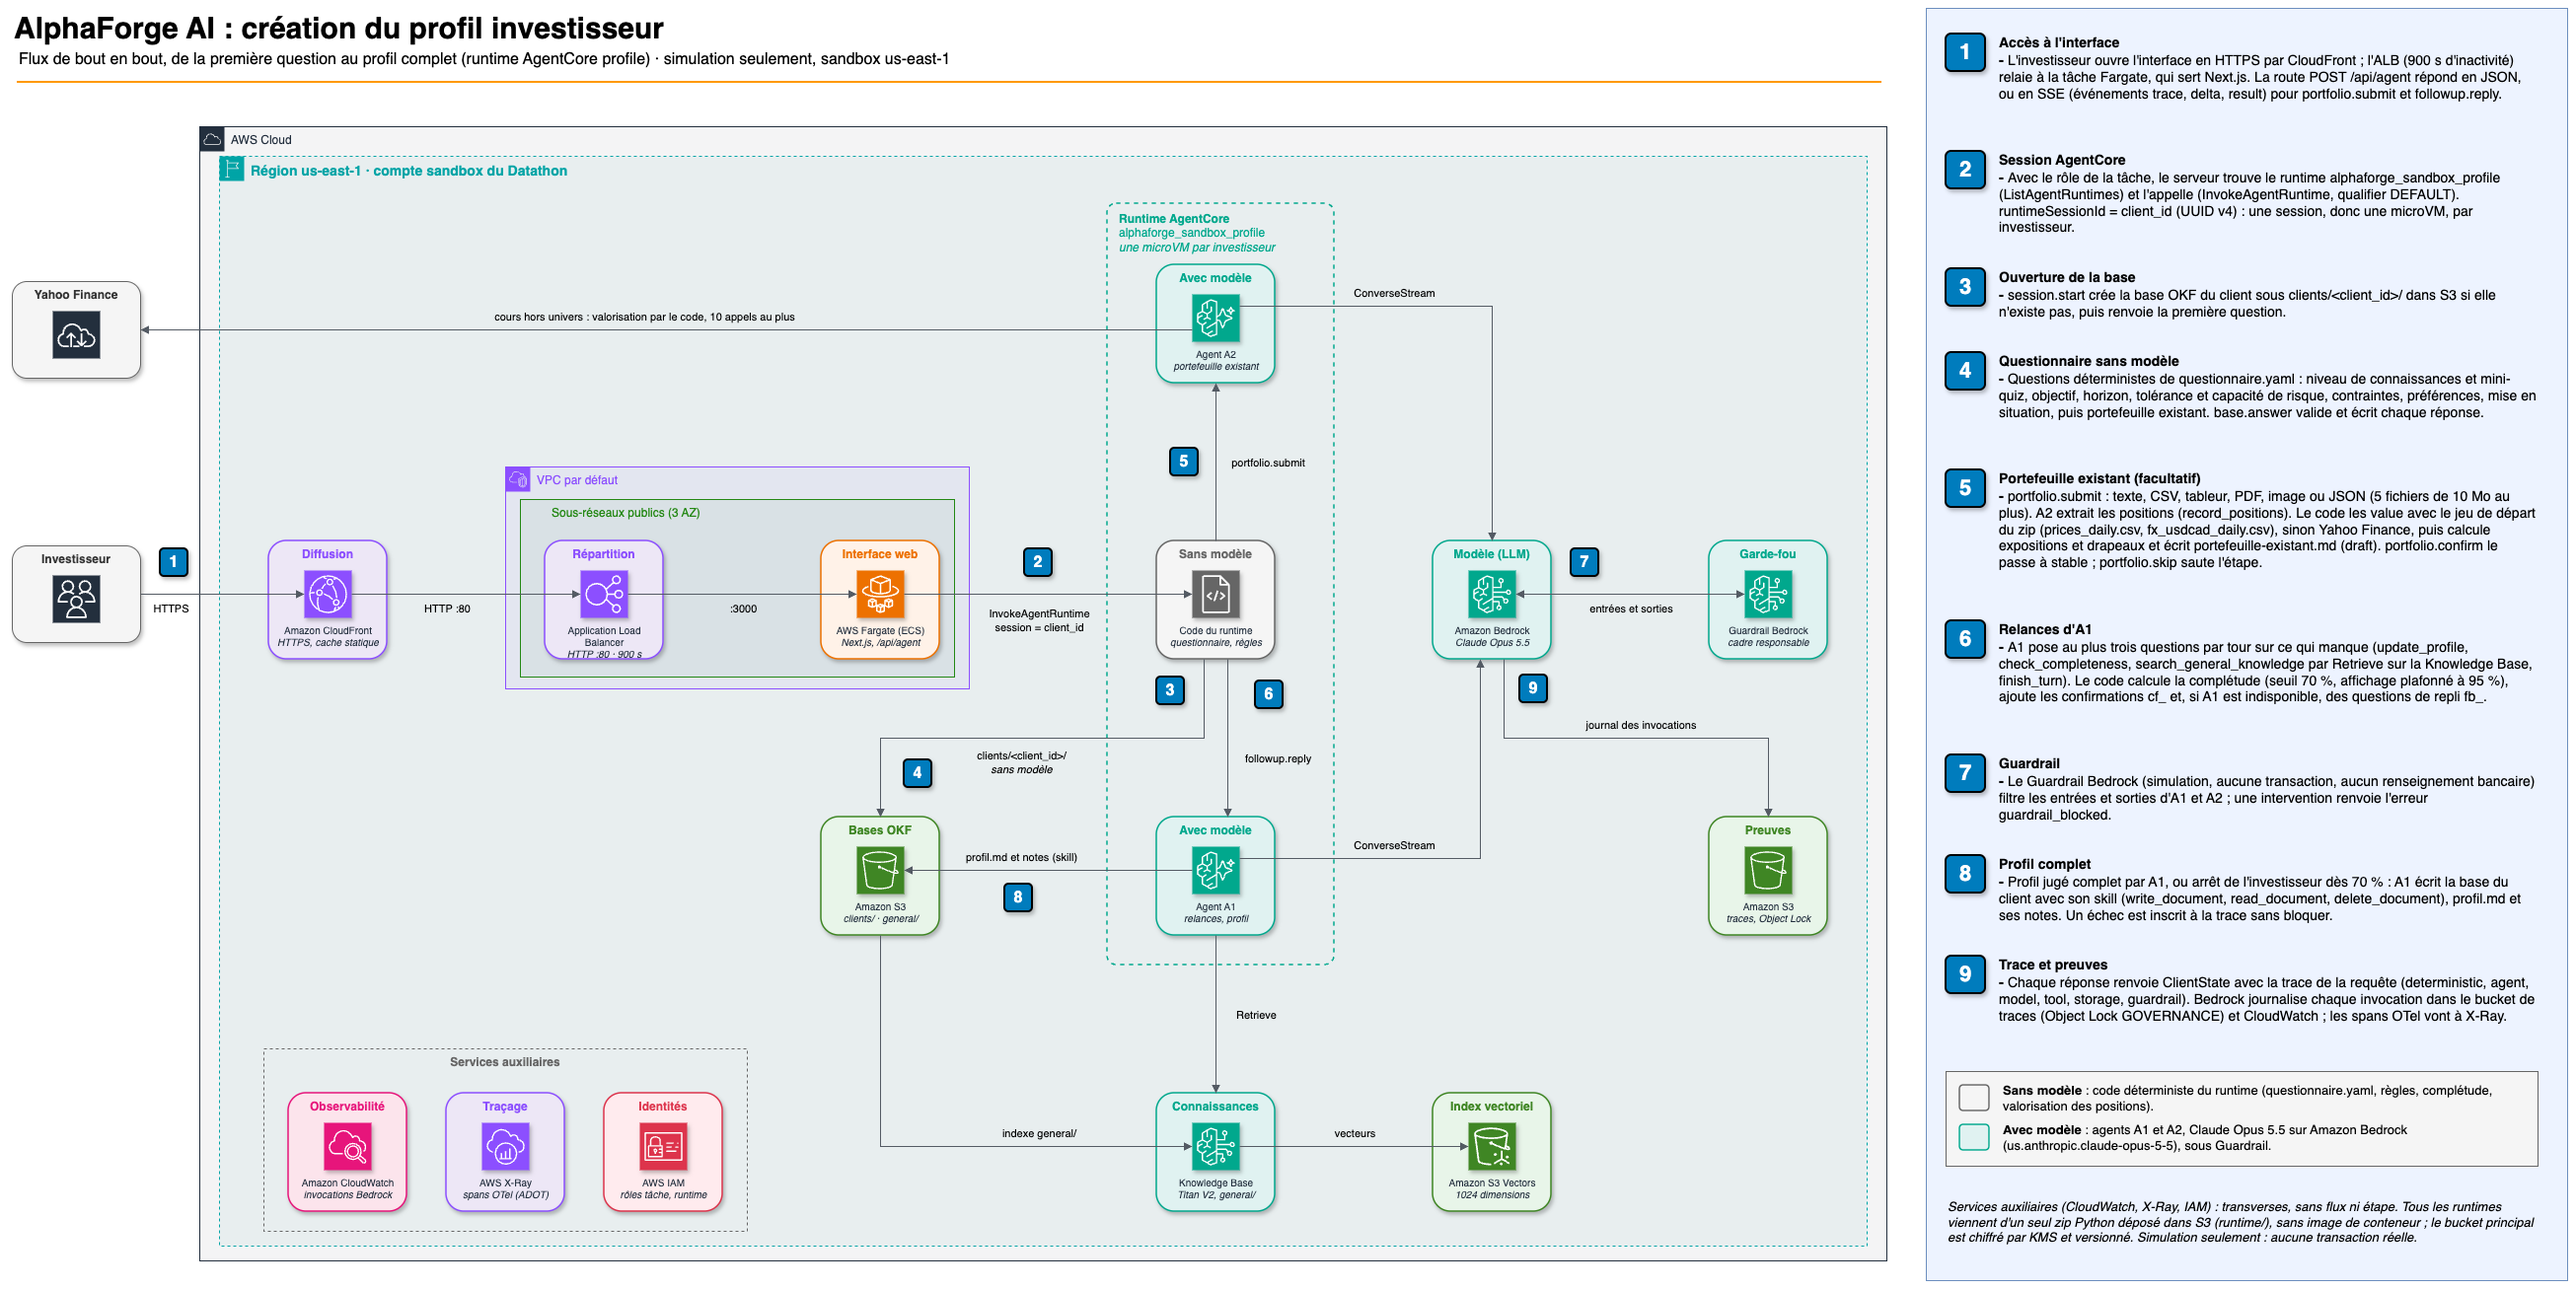
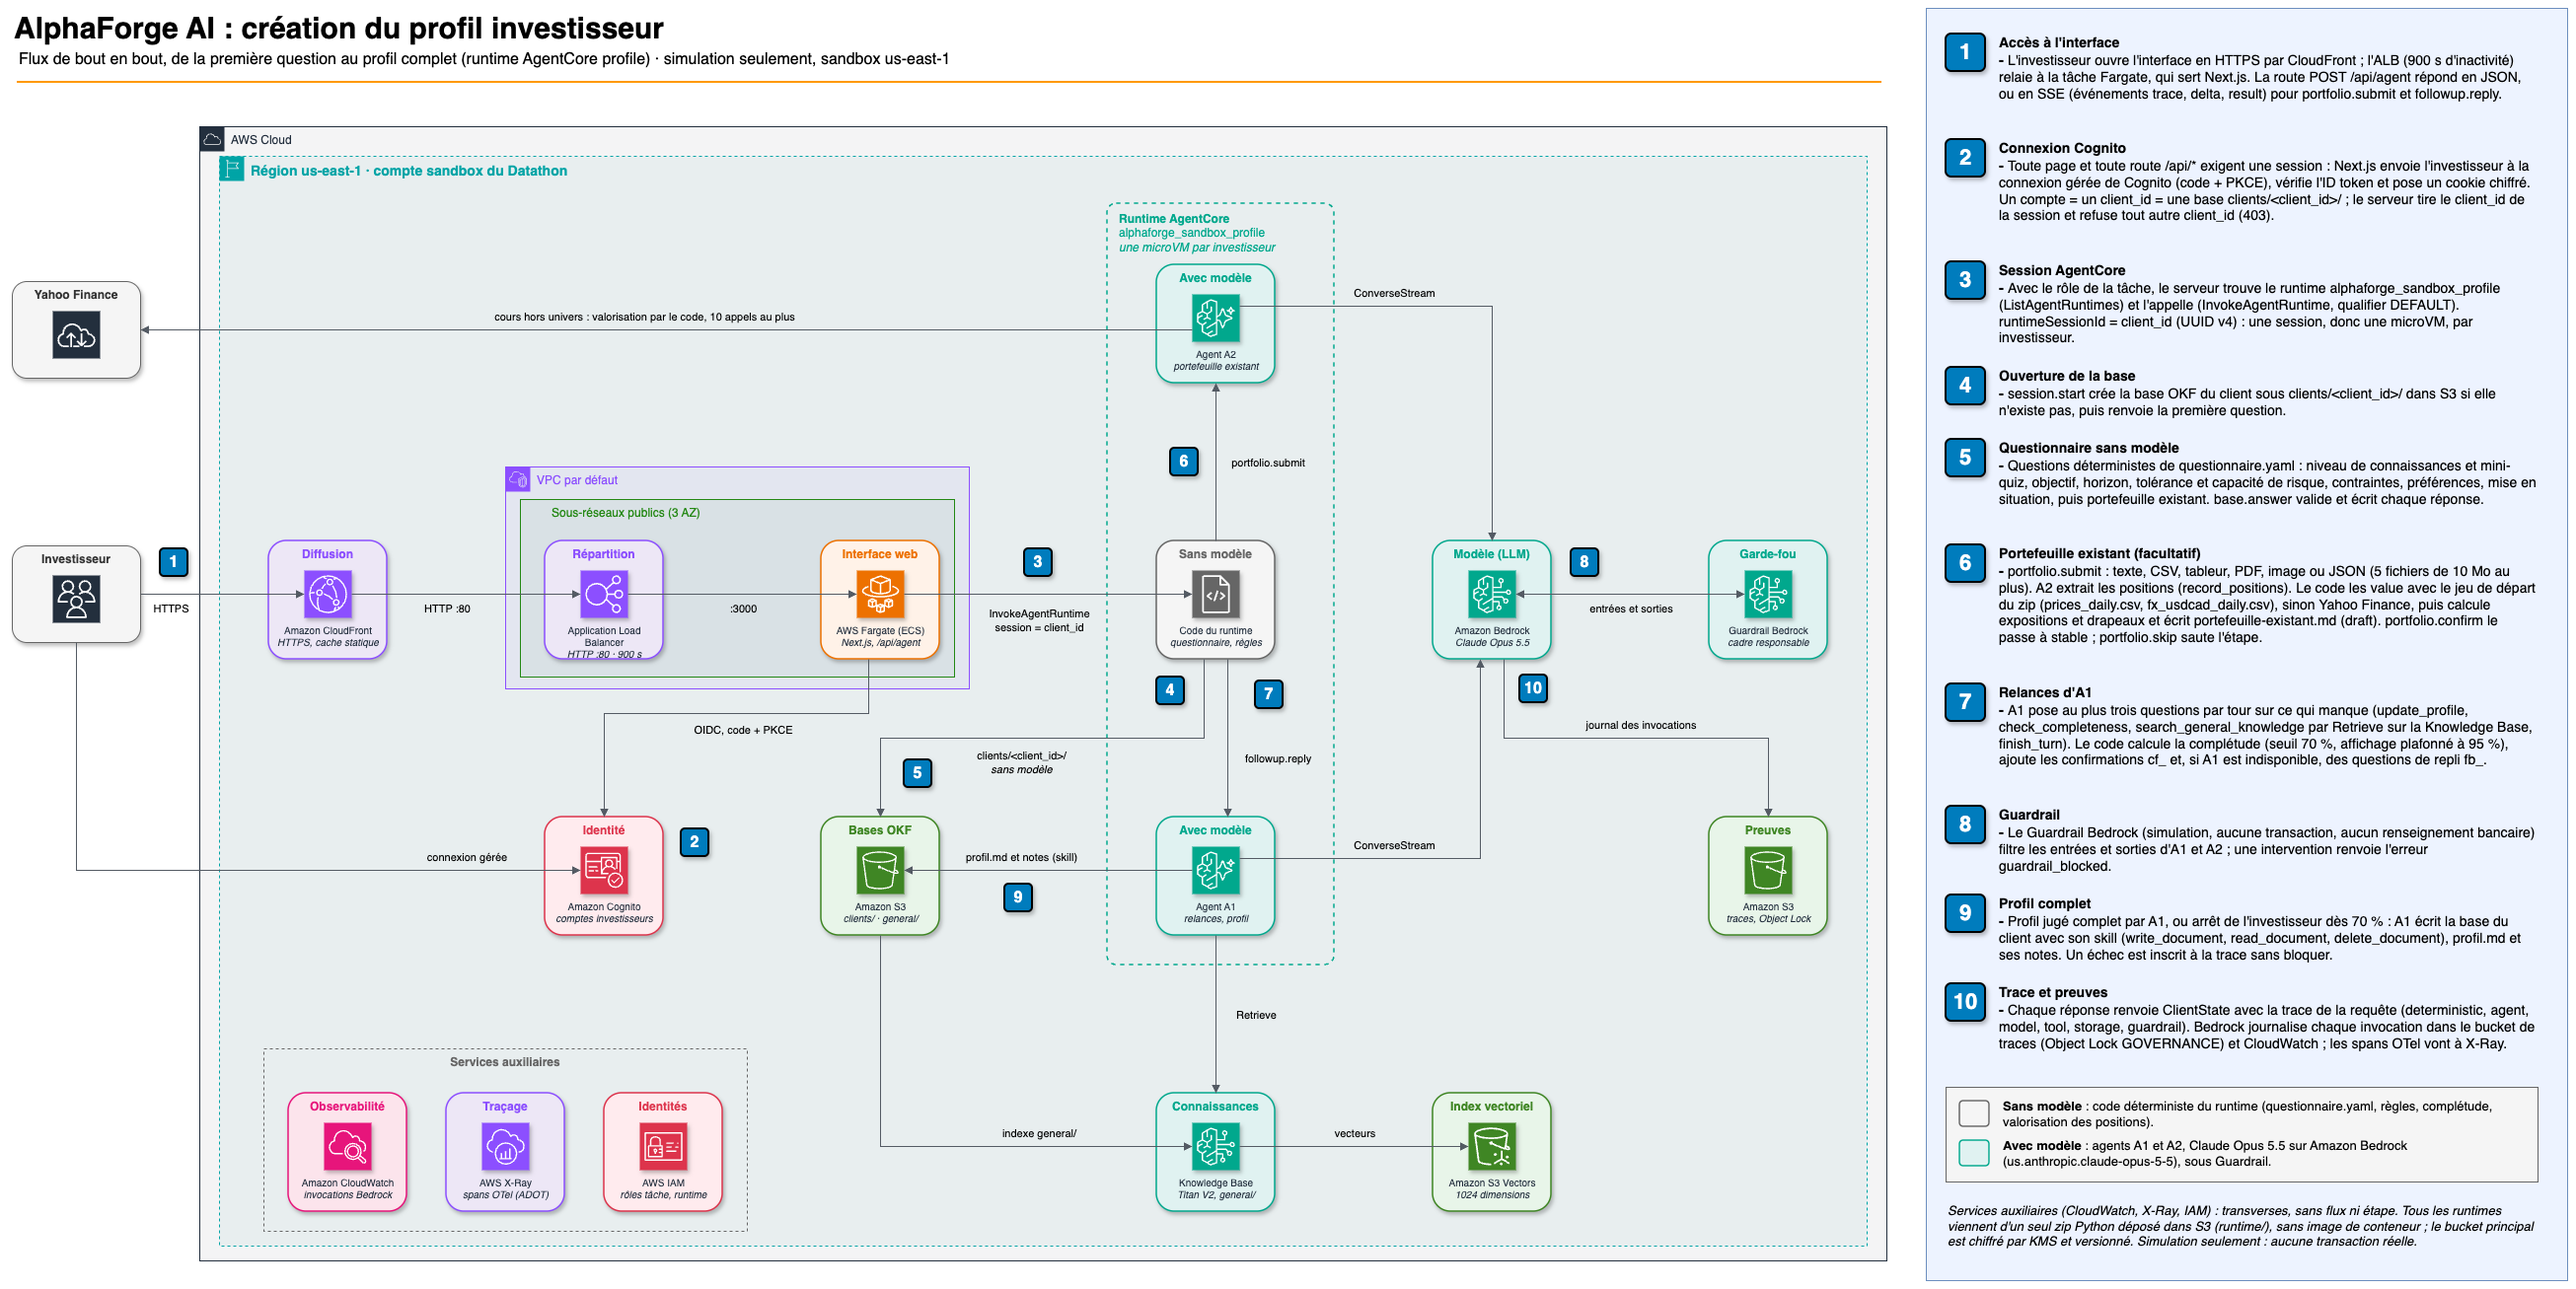
docs(architecture): Amazon Cognito dans deux diagrammes
Plateforme : Cognito au-dessus de la tâche Fargate, arêtes « connexion
gérée » (investisseur) et « OIDC, code + PKCE » (Next.js), nouvelle
étape 3 « Connexion Cognito » (renumérotation 3-14 en 4-15). L'étape 2
note que l'URL directe de l'ALB n'a pas de session si la connexion est
active ; l'étape de veille réserve le lancement depuis l'interface au
groupe admin.

Profil : Cognito sous l'ALB, mêmes deux arêtes, nouvelle étape 2
(renumérotation 2-9 en 3-10) : un compte = un client_id = une base
clients/<client_id>/, le serveur refuse tout autre client_id (403).

Validation : validate_drawio.py PASSED, post_process_drawio.py --dry-run
sans changement, PNG rendus par le viewer draw.io.

Changed region(s): [[0.7445, 0.0918, 0.9927, 0.9793], [0.2172, 0.6427, 0.2792, 0.7345], [0.2792, 0.5509, 0.3102, 0.5815]]

diff --git a/docs/architecture/README.md b/docs/architecture/README.md
@@ -11,7 +11,7 @@ Les pastilles bleues numérotent les étapes, décrites dans la légende à droi
 
 ## Plateforme complète
 
-Interface web, agents AgentCore et Bedrock, veille et base de connaissances, scénarios probabilistes, traçabilité et déploiement.
+Interface web, agents AgentCore et Bedrock, veille et base de connaissances, scénarios probabilistes, traçabilité et déploiement. L'investisseur se connecte par la connexion gérée d'Amazon Cognito (code + PKCE, vérifié par Next.js) : un compte = un `client_id` = une base `clients/<client_id>/`, et le serveur refuse tout autre `client_id` (403).
 
 ![Plateforme AlphaForge AI sur AWS : web, agents AgentCore, veille, base de connaissances et scénarios](alphaforge-plateforme-aws.png)
 
